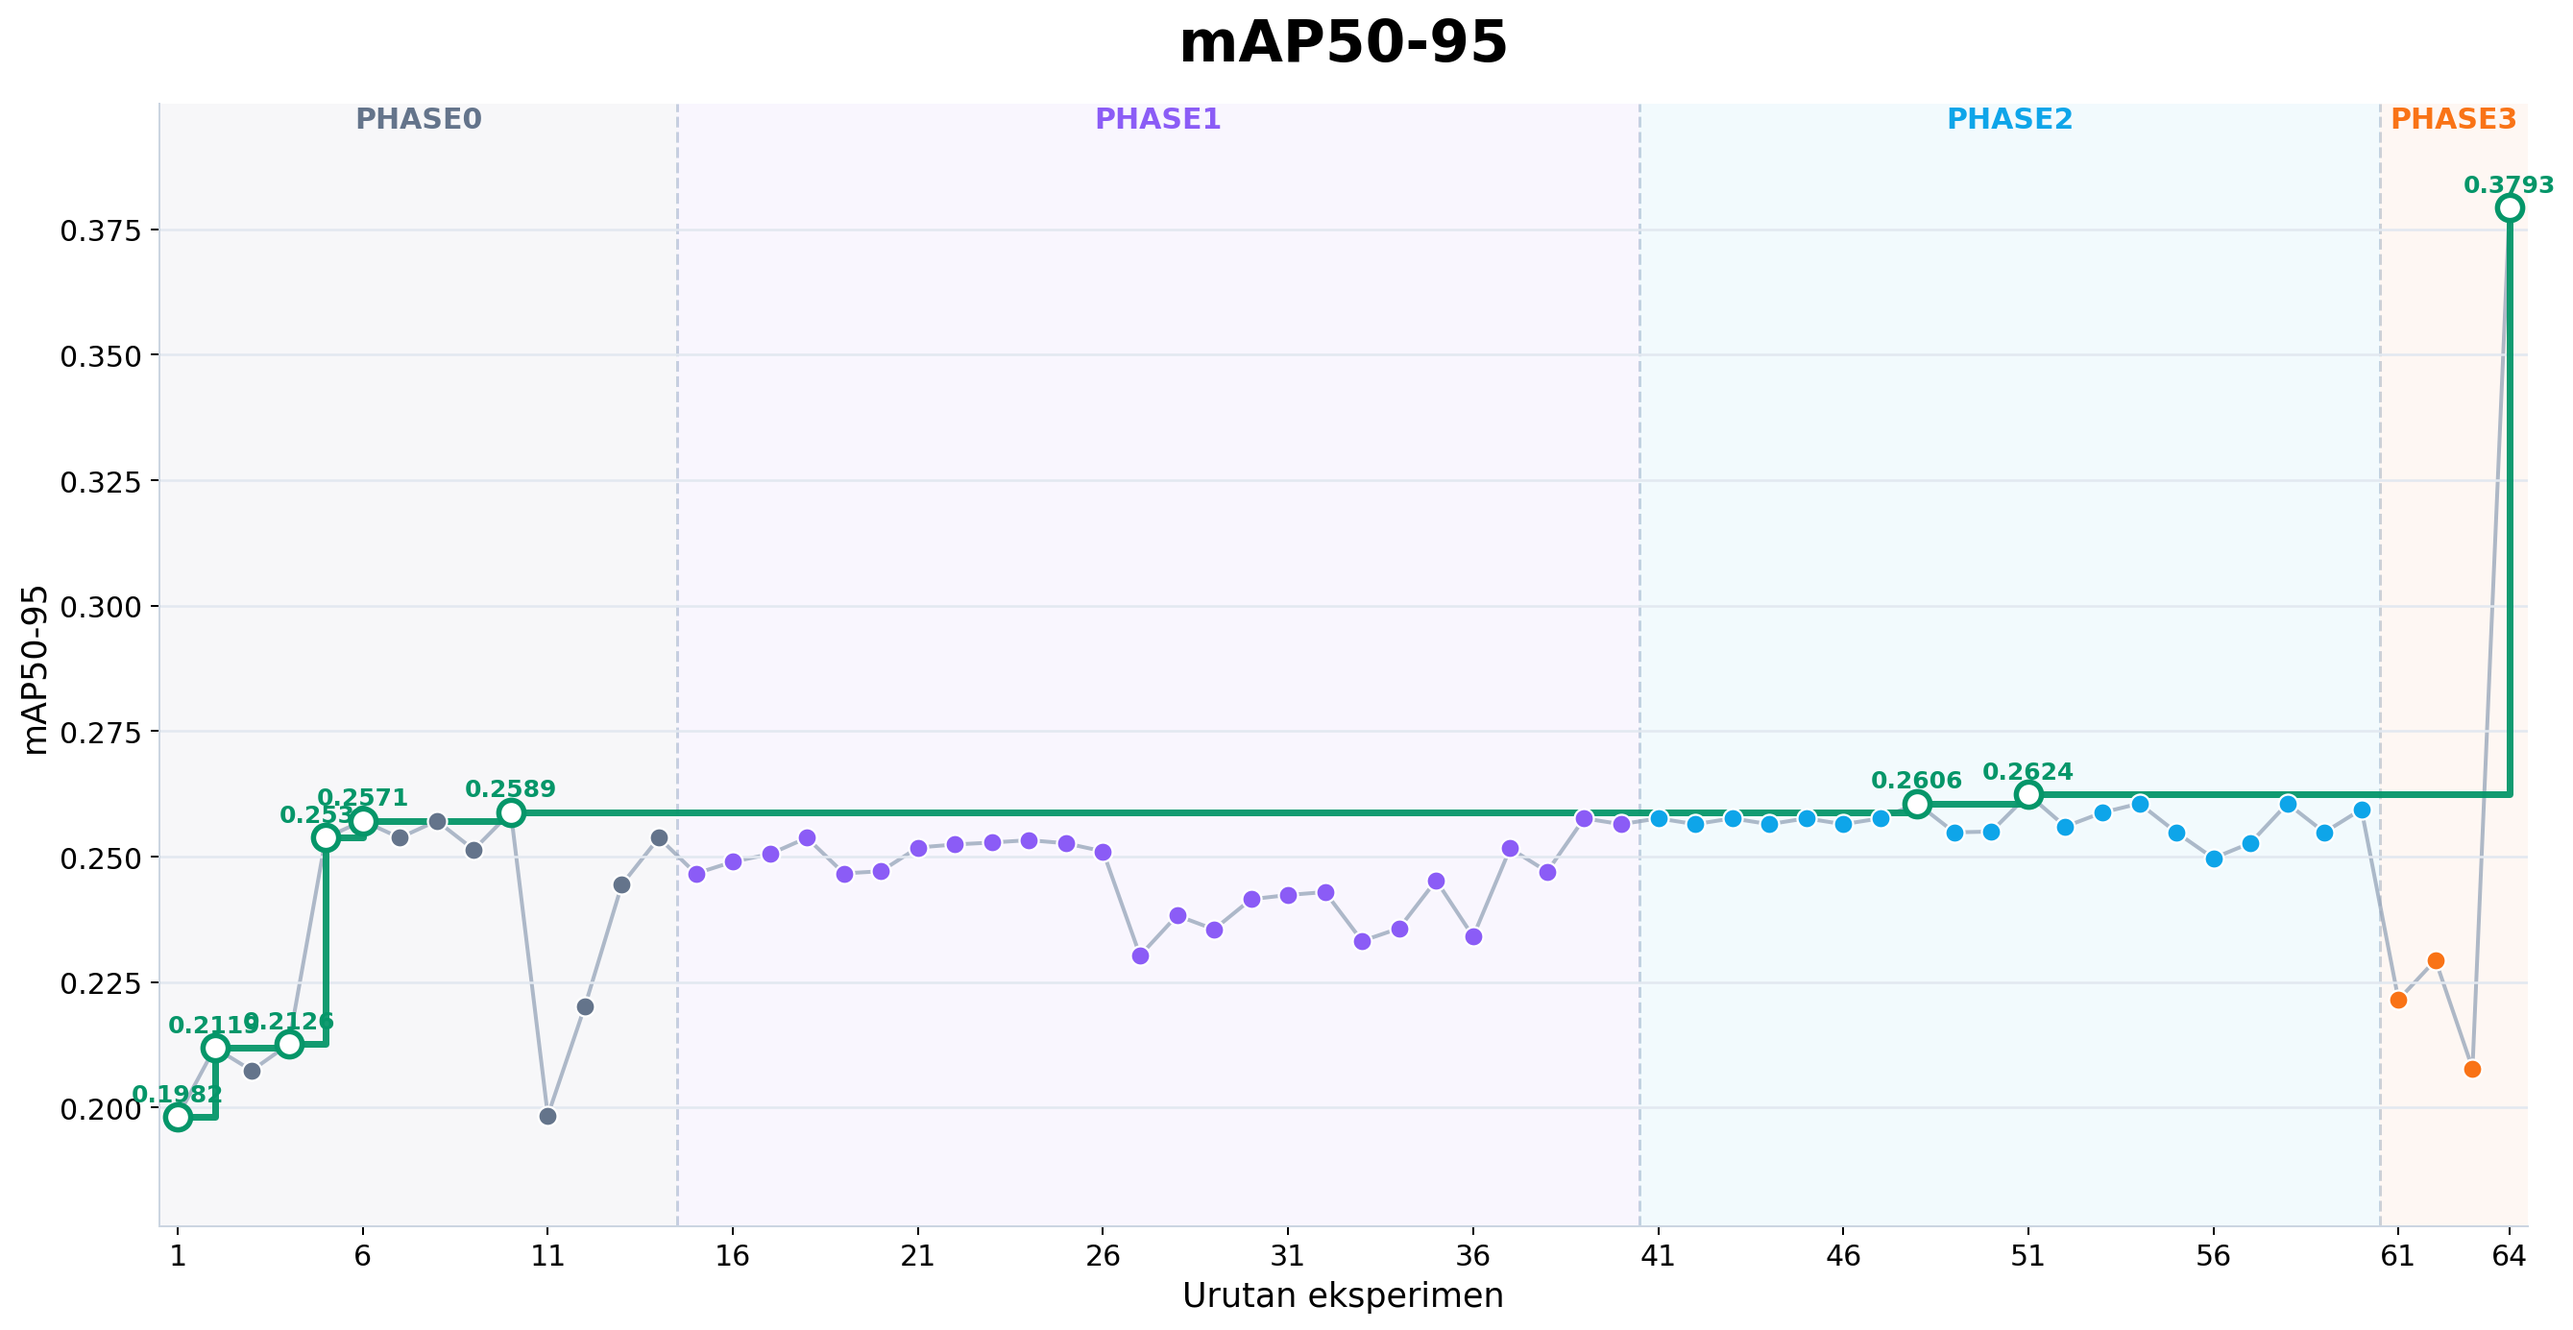
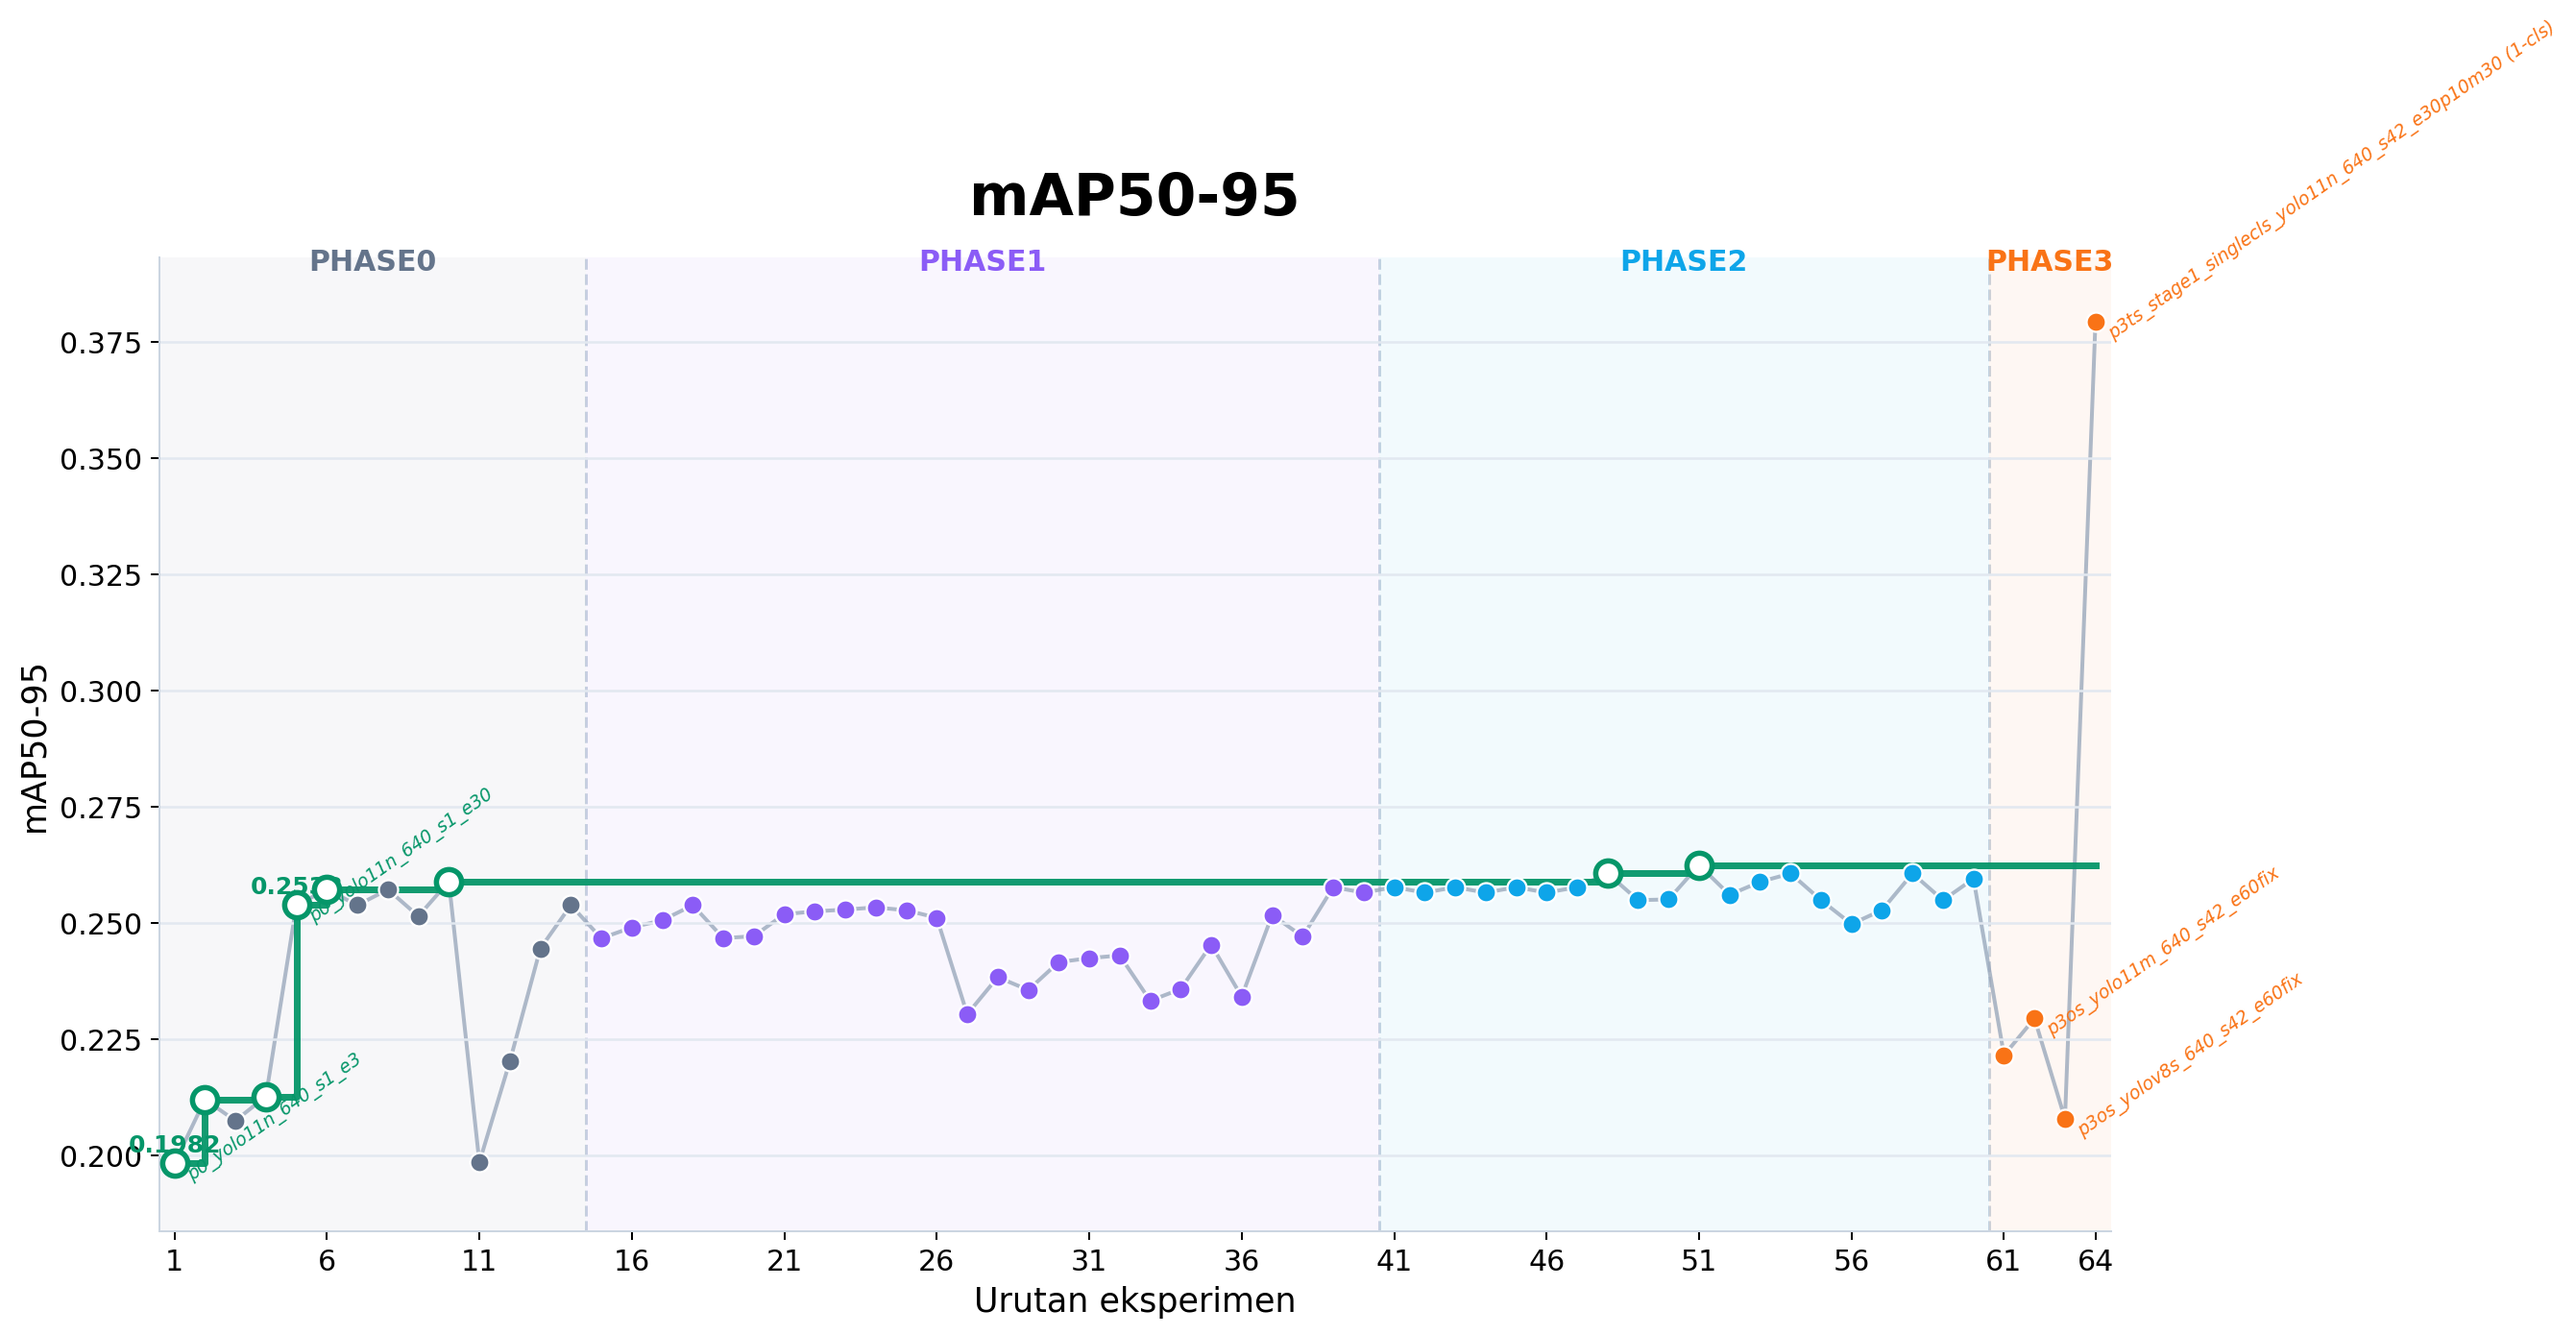
fix chart

diff --git a/scripts/generate_e0_research_progress_charts.py b/scripts/generate_e0_research_progress_charts.py
@@ -24,6 +24,14 @@ METRICS = [
     ("recall", "Recall", "#DC2626"),
 ]
 
+PHASE3_NOTABLE = {
+    "p3os_yolo11m_640_s42_e60fix",
+    "p3os_yolov8s_640_s42_e60fix",
+}
+
+# Minimum improvement to show a label on a new-best point
+LABEL_THRESHOLD = 0.015
+
 
 def load_detection_progress() -> pd.DataFrame:
     df = pd.read_csv(LEDGER_PATH)
@@ -69,12 +77,24 @@ def draw_phase_bands(ax: plt.Axes, df: pd.DataFrame, y_top: float) -> None:
 
 def make_chart(df: pd.DataFrame, metric_key: str, metric_label: str, accent: str) -> None:
     series = df[metric_key].astype(float)
-    running_best = series.cummax()
-    is_new_best = series.eq(running_best) & series.ne(running_best.shift(fill_value=-np.inf))
 
+    # running best ignores single-class runs so the line stays in 4-class range
+    is_singlecls = df["single_cls"].fillna(False).astype(bool)
+    series_4cls = series.where(~is_singlecls, other=np.nan)
+    running_best = series_4cls.cummax()
+
+    is_new_best = (
+        series_4cls.notna()
+        & series_4cls.eq(running_best)
+        & (running_best - running_best.shift(fill_value=0) > 0)
+    )
+    improvement = running_best - running_best.shift(fill_value=0)
+    is_labeled = is_new_best & (improvement >= LABEL_THRESHOLD)
+
+    # y range from full series so single-cls dot is visible
     ymin = float(series.min())
     ymax = float(series.max())
-    ypad = max((ymax - ymin) * 0.12, 0.01)
+    ypad = max((ymax - ymin) * 0.08, 0.01)
 
     fig, ax = plt.subplots(figsize=(15, 7.8), dpi=180)
     fig.patch.set_facecolor("white")
@@ -82,6 +102,7 @@ def make_chart(df: pd.DataFrame, metric_key: str, metric_label: str, accent: str
 
     draw_phase_bands(ax, df, ymax + ypad * 0.68)
 
+    # gray connecting line (all runs)
     ax.plot(
         df["exp_idx"],
         series,
@@ -91,6 +112,7 @@ def make_chart(df: pd.DataFrame, metric_key: str, metric_label: str, accent: str
         zorder=1,
     )
 
+    # running best step line (4-class only)
     ax.step(
         df["exp_idx"],
         running_best,
@@ -101,6 +123,7 @@ def make_chart(df: pd.DataFrame, metric_key: str, metric_label: str, accent: str
         zorder=2,
     )
 
+    # scatter dots by phase (all runs including single-cls; clipped by ylim)
     for phase, phase_df in df.groupby("phase", sort=False):
         ax.scatter(
             phase_df["exp_idx"],
@@ -110,8 +133,10 @@ def make_chart(df: pd.DataFrame, metric_key: str, metric_label: str, accent: str
             edgecolor="white",
             linewidth=0.9,
             zorder=3,
+            clip_on=True,
         )
 
+    # white-ring markers for all new-best 4-class points
     best_points = df[is_new_best]
     ax.scatter(
         best_points["exp_idx"],
@@ -123,7 +148,8 @@ def make_chart(df: pd.DataFrame, metric_key: str, metric_label: str, accent: str
         zorder=4,
     )
 
-    for _, row in best_points.iterrows():
+    # labels only for significant improvements
+    for _, row in df[is_labeled].iterrows():
         ax.text(
             row["exp_idx"],
             row[metric_key] + ypad * 0.1,
@@ -133,6 +159,49 @@ def make_chart(df: pd.DataFrame, metric_key: str, metric_label: str, accent: str
             fontsize=10,
             color=accent,
             fontweight="bold",
+        )
+        ax.text(
+            row["exp_idx"] + 0.3,
+            row[metric_key] - ypad * 0.08,
+            row["run_name"],
+            ha="left",
+            va="top",
+            fontsize=7.5,
+            color=accent,
+            style="italic",
+            rotation=35,
+            rotation_mode="anchor",
+        )
+
+    # Phase 3 notable: always labeled even if not a new best
+    phase3_label_df = df[df["run_name"].isin(PHASE3_NOTABLE) & ~is_labeled]
+    for _, row in phase3_label_df.iterrows():
+        ax.text(
+            row["exp_idx"] + 0.3,
+            row[metric_key] - ypad * 0.08,
+            row["run_name"],
+            ha="left",
+            va="top",
+            fontsize=7.5,
+            color=PHASE_COLORS["phase3"],
+            style="italic",
+            rotation=35,
+            rotation_mode="anchor",
+        )
+
+    # label single-cls runs with run_name (dot is visible in chart)
+    for _, row in df[is_singlecls].iterrows():
+        ax.text(
+            row["exp_idx"] + 0.3,
+            row[metric_key] - ypad * 0.08,
+            f"{row['run_name']} (1-cls)",
+            ha="left",
+            va="top",
+            fontsize=7.5,
+            color=PHASE_COLORS.get(row["phase"], "#94A3B8"),
+            style="italic",
+            rotation=35,
+            rotation_mode="anchor",
         )
 
     ax.set_xlim(0.5, df["exp_idx"].max() + 0.5)
